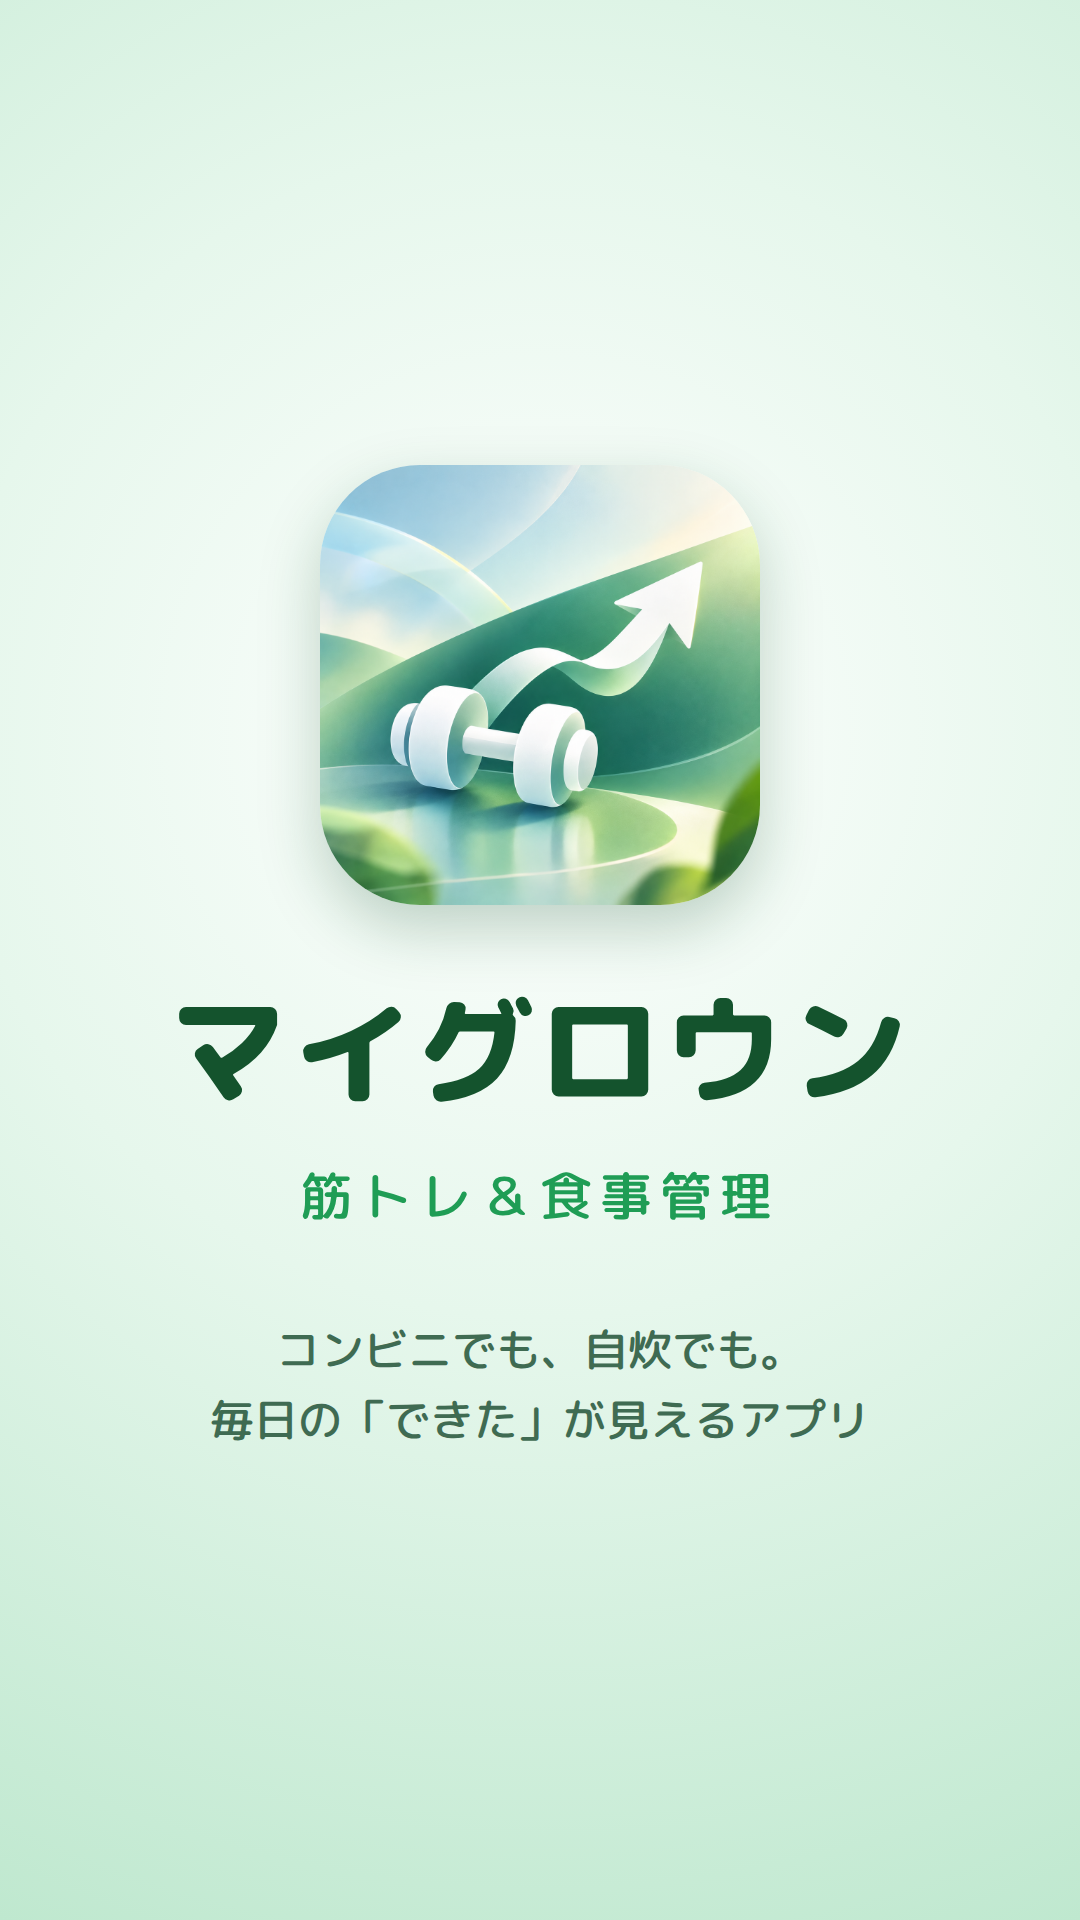
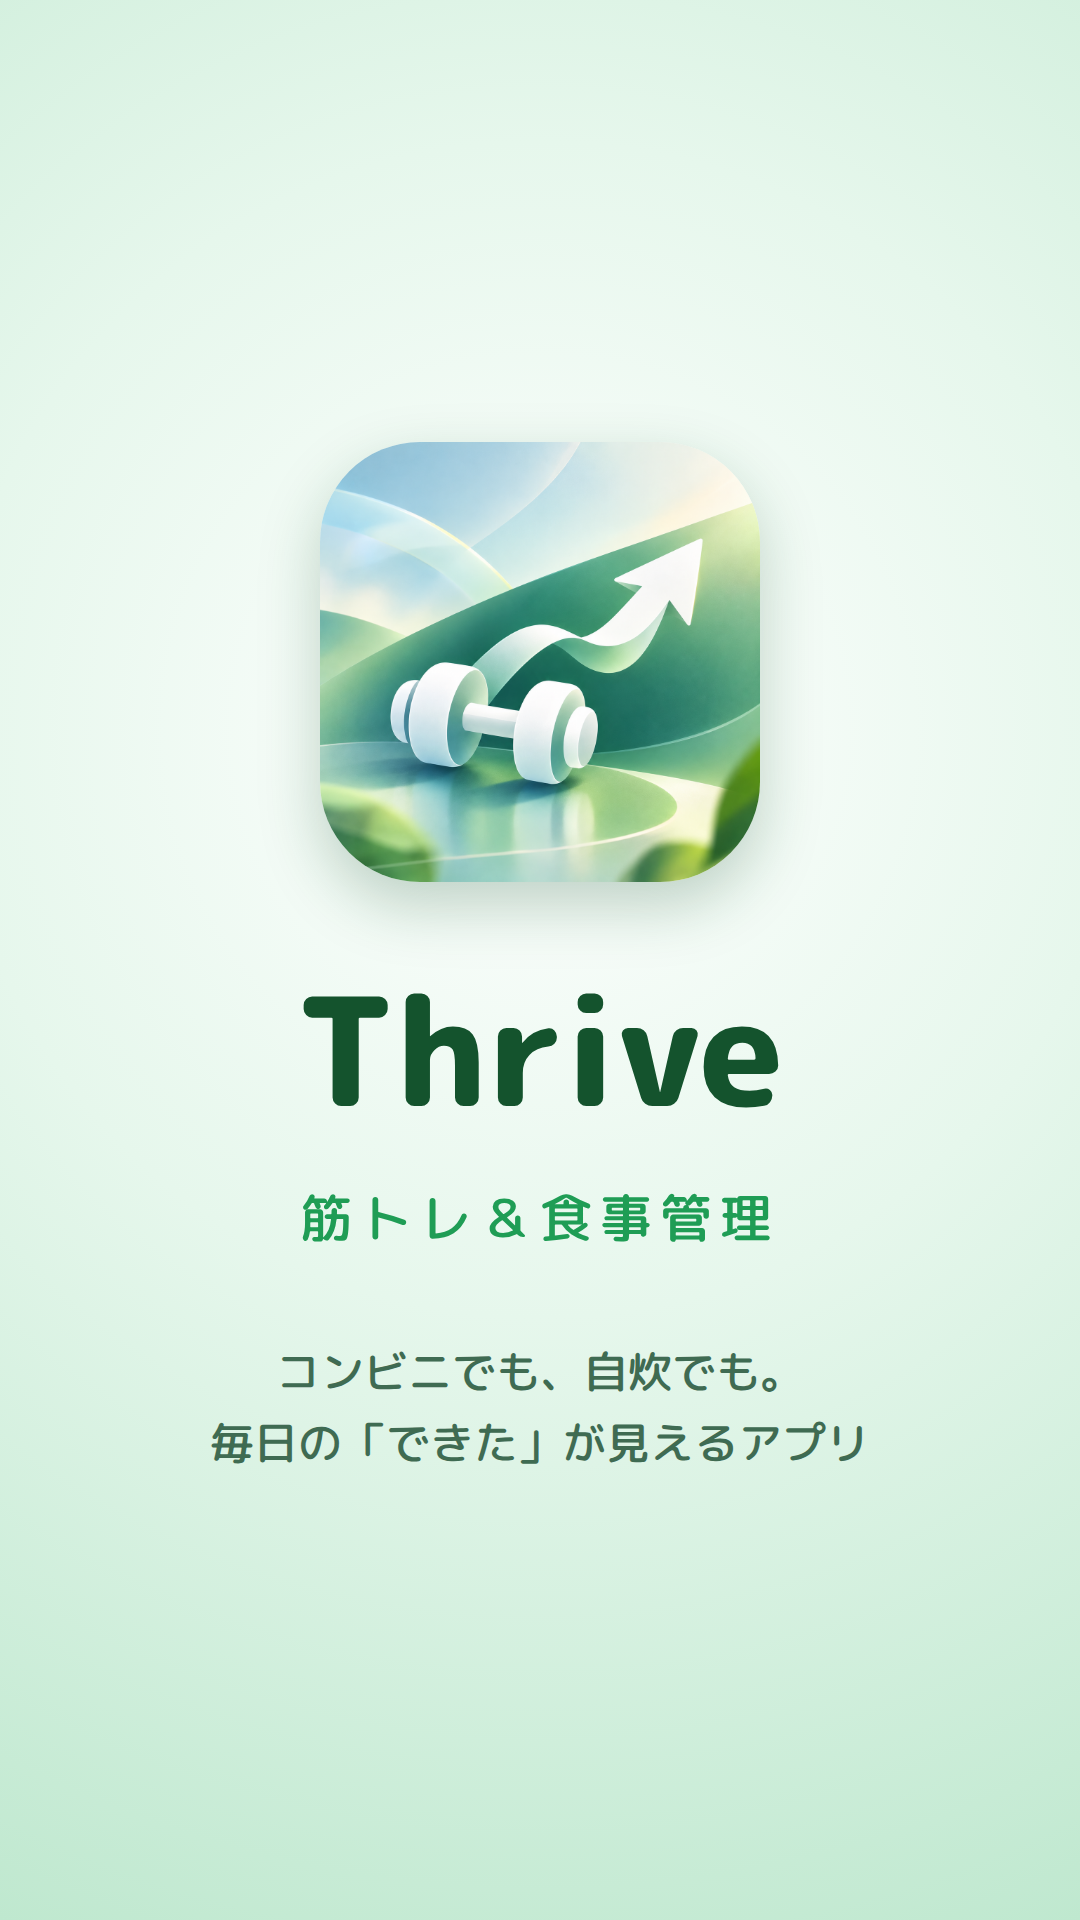
アプリ名を Thrive に変更（ホーム画面の名前・タイトル）、PV用ロゴとエンドカードも Thrive に
Claude-Session: https://claude.ai/code/session_016qGcDxP99Q4wqRwXM1c24j

diff --git a/index.html b/index.html
@@ -9,10 +9,10 @@
     <meta name="apple-mobile-web-app-capable" content="yes" />
     <meta name="mobile-web-app-capable" content="yes" />
     <meta name="apple-mobile-web-app-status-bar-style" content="default" />
-    <meta name="apple-mobile-web-app-title" content="マイグロウン" />
+    <meta name="apple-mobile-web-app-title" content="Thrive" />
     <link rel="apple-touch-icon" href="icons/apple-touch-icon.png" />
     <link rel="icon" type="image/png" href="icons/favicon.png" />
-    <title>筋トレ＆食事管理</title>
+    <title>Thrive 筋トレ＆食事管理</title>
   </head>
   <body>
     <div id="root"></div>

diff --git a/vite.config.ts b/vite.config.ts
@@ -13,8 +13,8 @@ export default defineConfig(({ command, isPreview }) => ({
       registerType: 'autoUpdate',
       includeAssets: ['icons/apple-touch-icon.png', 'icons/favicon.png'],
       manifest: {
-        name: '筋トレ＆食事管理',
-        short_name: 'マイグロウン',
+        name: 'Thrive 筋トレ＆食事管理',
+        short_name: 'Thrive',
         description: '11月末までに引き締めるための、筋トレと食事の記録アプリ',
         lang: 'ja',
         start_url: '.',

diff --git a/README.md b/README.md
@@ -1,4 +1,4 @@
-# 筋トレ＆食事管理（my-grown）
+# Thrive 筋トレ＆食事管理（my-grown）
 
 11月末までに体を引き締めるための、スマホ向けの筋トレ＆食事記録アプリ。
 Vite + React + TypeScript の静的サイトで、データは端末の IndexedDB（Dexie.js）に保存します。PWA なので iPhone のホーム画面に追加してオフラインでも使えます。
